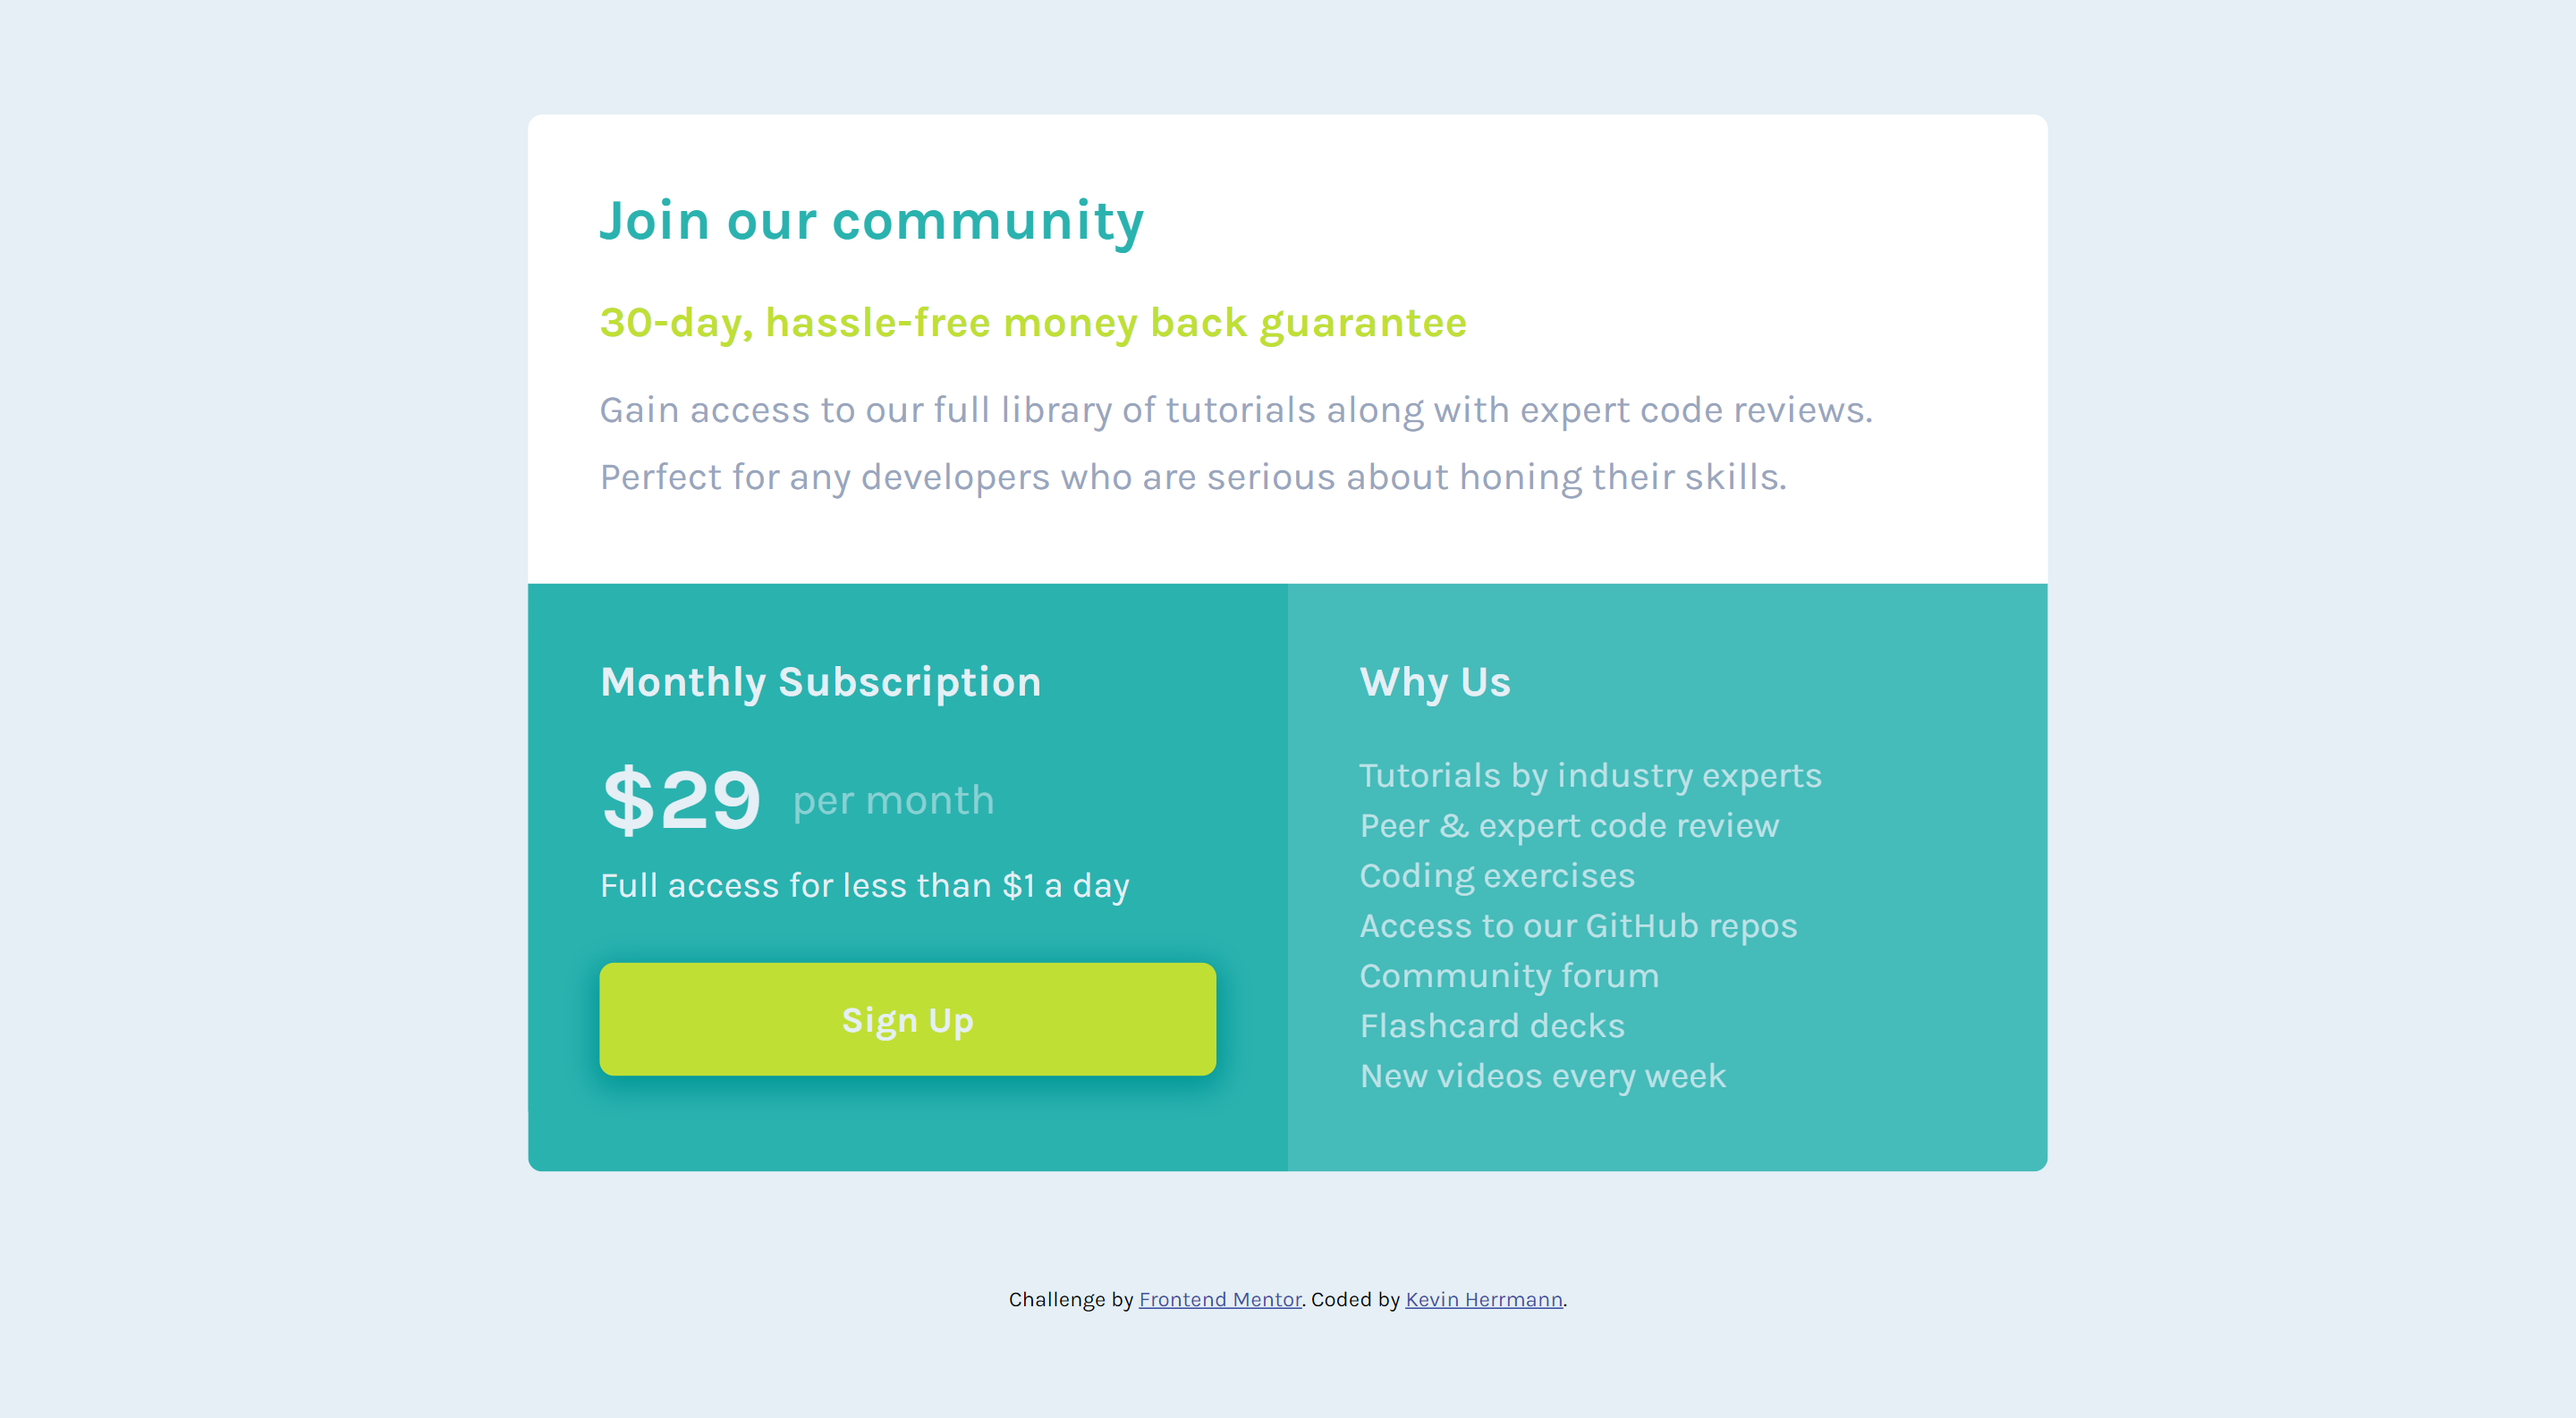
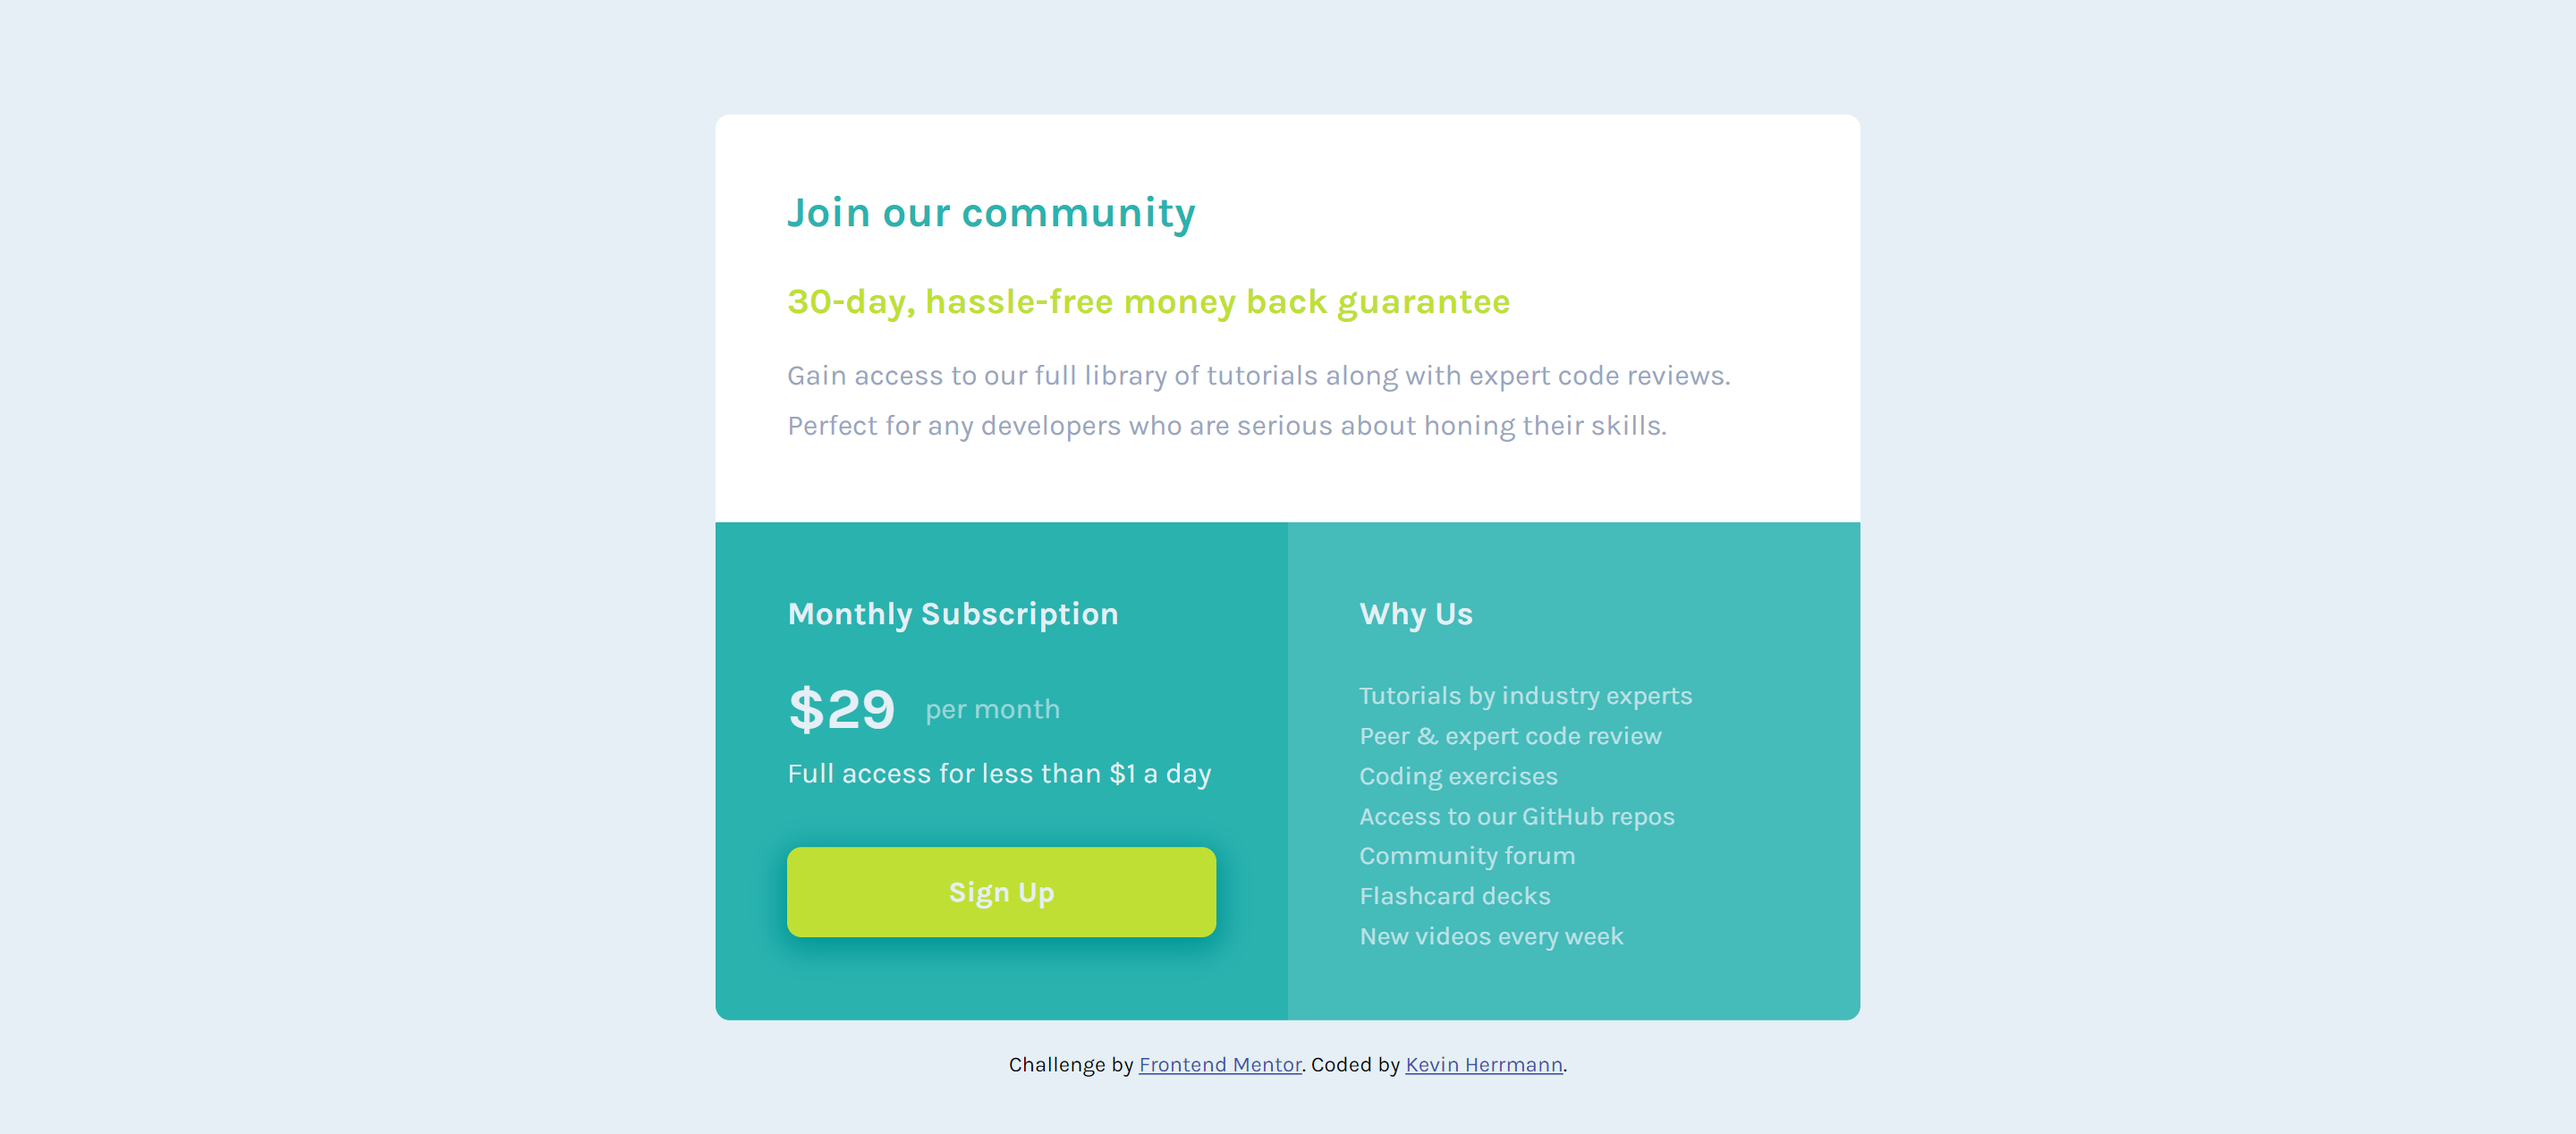
Add files via upload
cleaning up HTML and CSS

Changed region(s): [[0.1875, 0.0615, 0.8125, 0.9535]]

diff --git a/styles.css b/styles.css
@@ -17,30 +17,25 @@
     box-sizing: border-box;
 }
 
-html {
-    font-size: 16px;
-}
-
 /* GENERAL STYLES */
 body {
     background-color: var(--light-gray);
-    font-size: 1rem;
     font-family: "Karla", sans-serif;
 }
 
 h1,
 h2 {
     margin-bottom: 1.5rem;
-    font-weight: 700;
 }
 
 h2 {
-    font-size: 1.15rem;
+    font-size: 1.125rem;
 }
 
-/* CONTENT CONTAINER */
+/* MAIN CONTENT CONTAINER */
 .container {
     width: 85%;
+    max-width: 40rem;
     margin: 4rem auto;
     border-radius: 0.5rem;
     overflow: hidden;
@@ -59,7 +54,6 @@ section.community {
 
 .community .heading {
     color: var(--cyan);
-    font-weight: 700;
     font-size: 1.25rem;
 }
 
@@ -95,7 +89,7 @@ span.price {
 }
 
 span.term {
-    opacity: 0.5;
+    opacity: 0.6;
 }
 
 .button {
@@ -124,7 +118,6 @@ section.why-us {
 
 .why-us ul {
     list-style-type: none;
-    color: var(--light-gray);
     font-size: 0.9rem;
 }
 
@@ -137,64 +130,27 @@ section.why-us {
 .attribution {
     font-size: 0.75rem;
     text-align: center;
-    margin-bottom: 1rem;
+    /* margin-bottom: 2rem; */
 }
 
 .attribution a {
     color: hsl(228, 45%, 44%);
 }
 
-/********** RESPONSIVE DESIGN - TABLET **********/
-@media only screen and (min-width: 714px) {
-    .container {
-        max-width: 630px;
-        display: grid;
-        grid-template-columns: 1fr 1fr;
-        grid-template-rows: auto;
-    }
-
-    .community,
-    .subscription,
-    .why-us {
-        padding: 2rem;
-    }
-
-    .community {
-        grid-column: span 2;
-    }
-
-    .community .heading {
-        font-size: 1.5rem;
-    }
-
-    .community .subheading {
-        font-size: 1.15rem;
-    }
-
-    .community .description {
-        font-size: 1rem;
-    }
-
-    .subscription {
-        grid-column: span 1;
-    }
-
-    .why-us {
-        grid-column: span 1;
-    }
-}
-
-/********** RESPONSIVE DESIGN - LAPTOP LARGE ***********/
-@media only screen and (min-width: 1440px) {
-    h2 {
-        font-size: 1.5rem;
+/********** RESPONSIVE DESIGN - LAPTOP ***********/
+@media only screen and (min-width: 1024px) {
+    body {
+        width: 100%;
+        height: 100vh;
+        display: flex;
+        flex-direction: column;
+        justify-content: center;
+        align-items: center;
     }
 
     .container {
-        max-width: 850px;
         display: grid;
         grid-template-columns: 1fr 1fr;
-        grid-template-rows: auto;
     }
 
     .community,
@@ -208,43 +164,19 @@ section.why-us {
     }
 
     .community .heading {
-        font-size: 2rem;
+        font-size: 1.5rem;
     }
 
     .community .subheading {
-        font-size: 1.5rem;
+        font-size: 1.25rem;
     }
 
     .community .description {
-        font-size: 1.35rem;
+        font-size: 1rem;
     }
 
-    .subscription {
-        grid-column: span 1;
-    }
-
-    span.price {
-        font-size: 3rem;
-    }
-
-    span.term {
-        font-size: 1.5rem;
-    }
-
-    .subscription-text {
-        font-size: 1.25rem;
-    }
-
-    .button {
-        font-size: 1.25rem;
-        padding: 1.25rem 0;
-    }
-
-    .why-us {
-        grid-column: span 1;
-    }
-
-    .why-us ul {
-        font-size: 1.25rem;
+    footer {
+        position: absolute;
+        bottom: 2rem;
     }
 }

diff --git a/index.html b/index.html
@@ -10,33 +10,31 @@
 </head>
 
 <body>
-  <main>
-    <div class="container">
-      <section class="community">
-        <h1 class="heading">Join our community</h1>
-        <p class="subheading">30-day, hassle-free money back guarantee</p>
-        <p class="description">Gain access to our full library of tutorials along with expert code reviews. Perfect for
-          any developers who are serious about honing their skills.</p>
-      </section>
-      <section class="subscription">
-        <h2>Monthly Subscription</h2>
-        <p class="rate"><span class="price">&dollar;29</span> <span class="term">per month</span></p>
-        <p class="subscription-text">Full access for less than &dollar;1 a day</p>
-        <button class="button">Sign Up</button>
-      </section>
-      <section class="why-us">
-        <h2>Why Us</h2>
-        <ul>
-          <li>Tutorials by industry experts</li>
-          <li>Peer &amp; expert code review</li>
-          <li>Coding exercises</li>
-          <li>Access to our GitHub repos</li>
-          <li>Community forum</li>
-          <li>Flashcard decks</li>
-          <li>New videos every week</li>
-        </ul>
-      </section>
-    </div>
+  <main class="container">
+    <section class="community">
+      <h1 class="heading">Join our community</h1>
+      <p class="subheading">30-day, hassle-free money back guarantee</p>
+      <p class="description">Gain access to our full library of tutorials along with expert code reviews. Perfect for
+        any developers who are serious about honing their skills.</p>
+    </section>
+    <section class="subscription">
+      <h2>Monthly Subscription</h2>
+      <p class="rate"><span class="price">&dollar;29</span> <span class="term">per month</span></p>
+      <p class="subscription-text">Full access for less than &dollar;1 a day</p>
+      <button class="button">Sign Up</button>
+    </section>
+    <section class="why-us">
+      <h2>Why Us</h2>
+      <ul>
+        <li>Tutorials by industry experts</li>
+        <li>Peer &amp; expert code review</li>
+        <li>Coding exercises</li>
+        <li>Access to our GitHub repos</li>
+        <li>Community forum</li>
+        <li>Flashcard decks</li>
+        <li>New videos every week</li>
+      </ul>
+    </section>
   </main>
   <footer>
     <p class="attribution"> Challenge by <a href="https://www.frontendmentor.io?ref=challenge" target="_blank">Frontend
